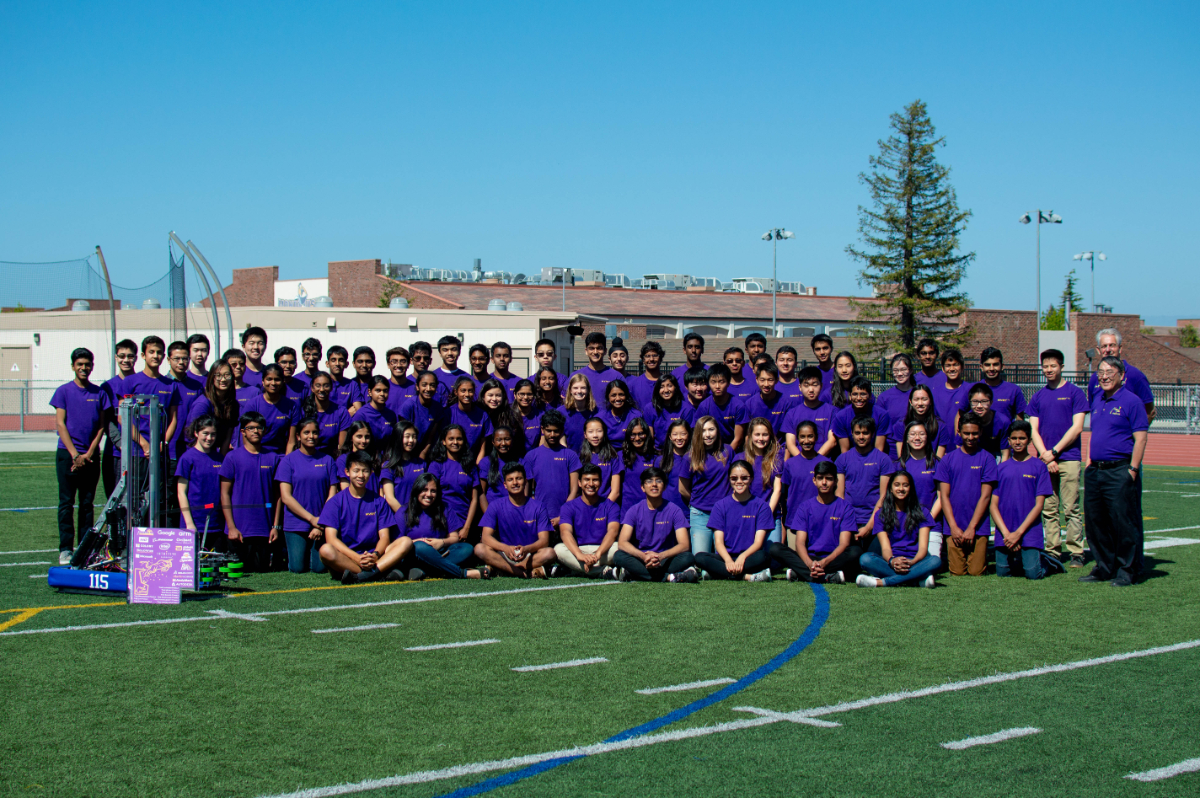
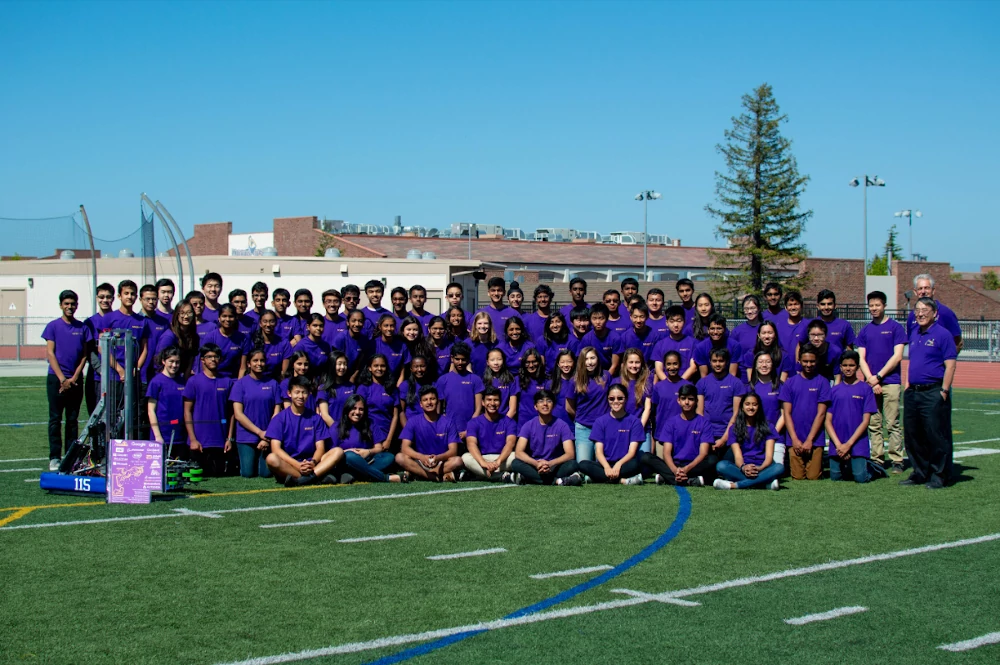
Decreased sizes of images over 1MB

diff --git a/calendar.html b/calendar.html
@@ -232,7 +232,7 @@
                     <h4>Information</h4>
                     <br />
 
-                    <p>The MVRT Talon SRX Breakout requires both surface mount and through hole soldering. The exact components are linked in the open source files below, because the entire board is 100% open source. The board comes with the 12-pin header to attach to the Talon SRX. MVRT highly recommends that you place electrical tape on the bottom of the board to pevent shorts.
+                    <p>The MVRT Talon SRX Breakout requires both surface mount and through hole soldering. The exact components are linked in the open source files below, because the entire board is 100% open source. The board comes with the 12-pin header to attach to the Talon SRX. MVRT highly recommends that you place electrical tape on the bottom of the board to prevent shorts.
                     </p>
                     <br />
 
